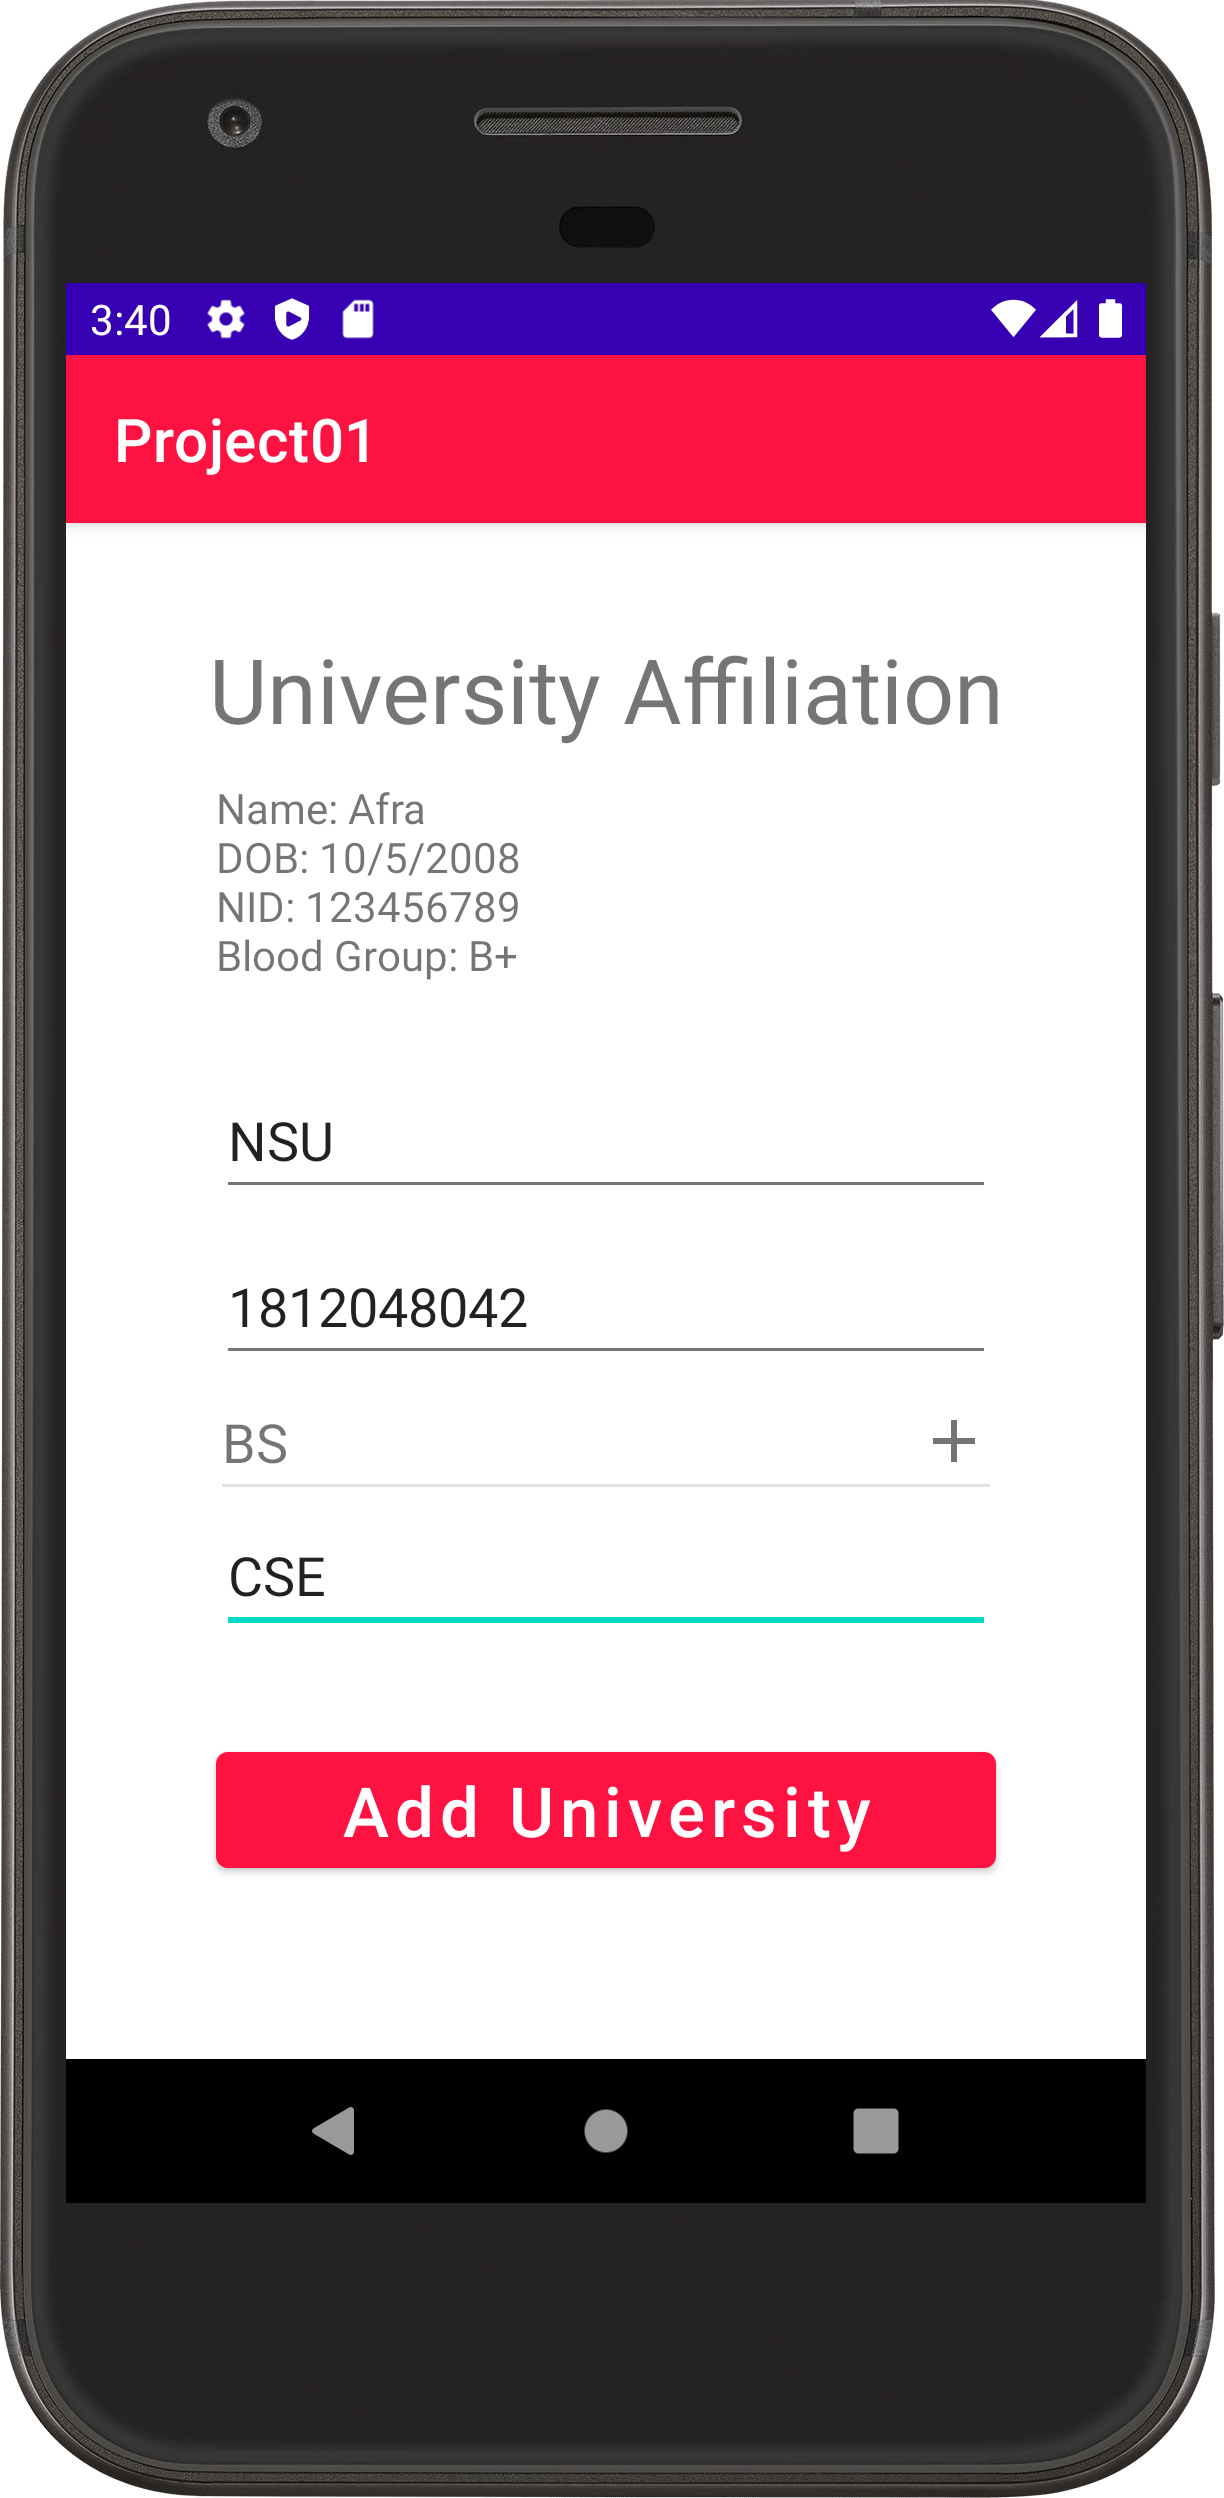
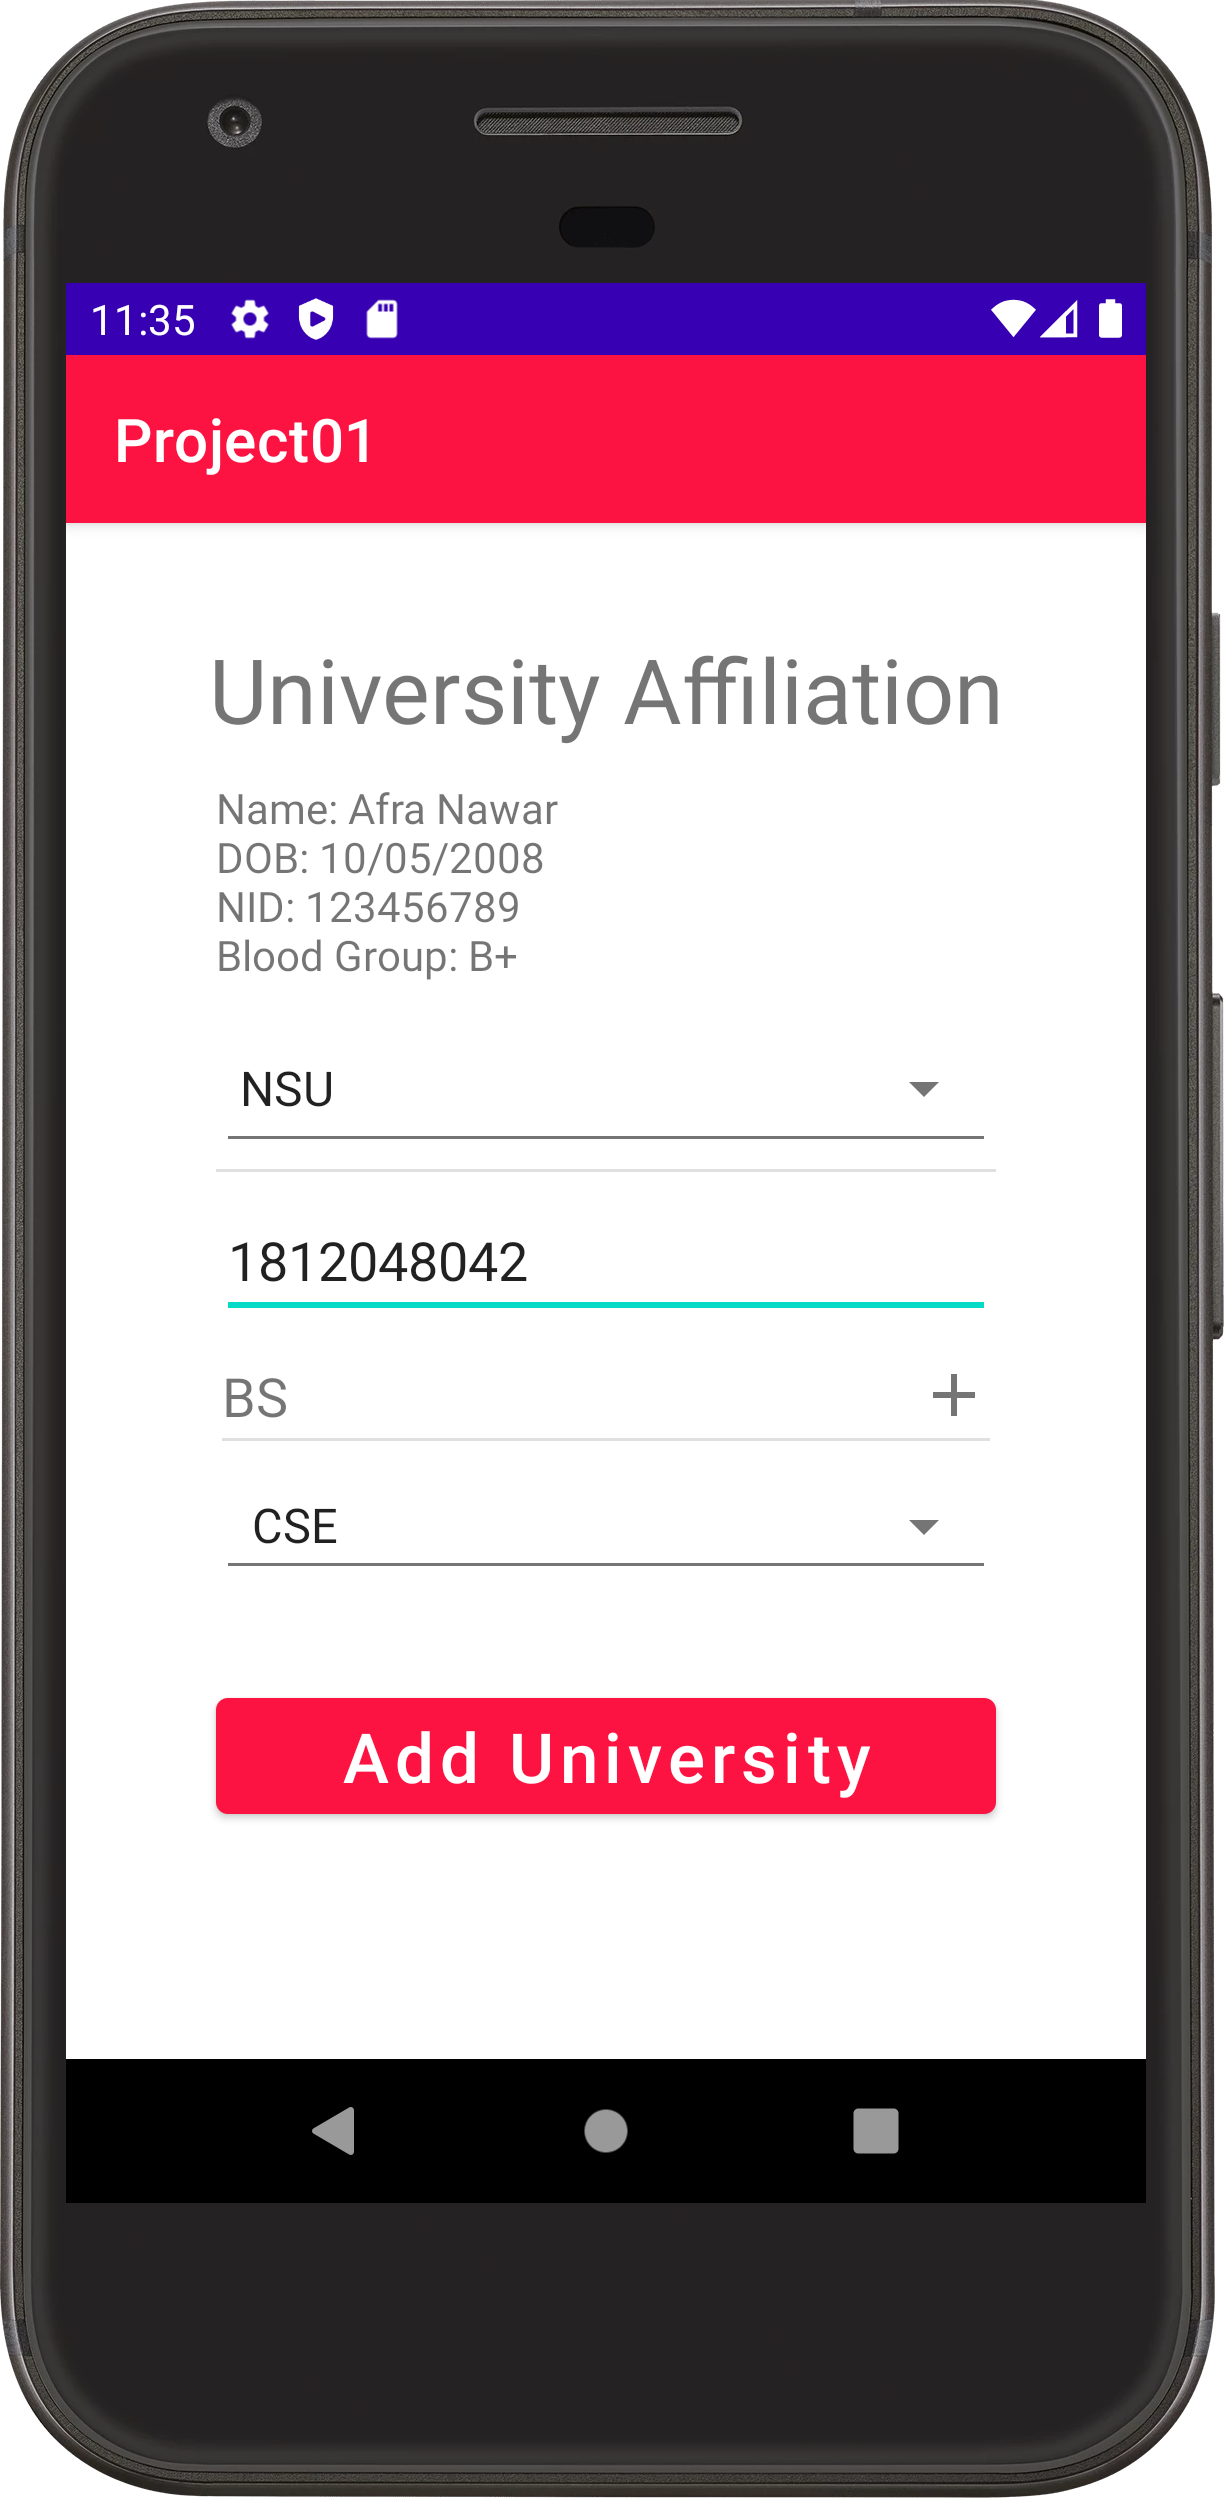
Converted Uni and Dept to Dropdown Assgn1

diff --git a/Theory/Assignment/Assignment01/app/src/main/java/com/example/cse486/project01/UniversityAffiliation.java b/Theory/Assignment/Assignment01/app/src/main/java/com/example/cse486/project01/UniversityAffiliation.java
@@ -8,20 +8,26 @@ import android.content.DialogInterface;
 import android.content.Intent;
 import android.os.Bundle;
 import android.view.View;
+import android.widget.AdapterView;
+import android.widget.ArrayAdapter;
+import android.widget.SpinnerAdapter;
 import android.widget.Toast;
 
 import com.example.cse486.project01.databinding.ActivityMainBinding;
 import com.example.cse486.project01.databinding.ActivityUniversityAffiliationBinding;
 
 public class UniversityAffiliation extends AppCompatActivity {
-    private String uni;
-    private String dept;
+    private boolean uni;
+    private boolean dept;
+    private String uni_name;
+    private String dept_name;
     private String sid;
     private String study;
     private boolean dobisset = true;
     private boolean bgroupisset = false;
     final String[] studies = {
             "BS", "MS", "Post-Doc", "PhD"};
+
     private boolean studyisset = false;
 
     @Override
@@ -31,24 +37,63 @@ public class UniversityAffiliation extends AppCompatActivity {
         ActivityUniversityAffiliationBinding bindingUtil = DataBindingUtil.setContentView(this,R.layout.activity_university_affiliation);
         UserInfo userInfo = new UserInfo(getApplicationContext());
 
-        bindingUtil.prevInfo.setText("Name: "+userInfo.getName()+"\nDOB: "+userInfo.getDOB()+"\nNID: "+userInfo.getNID()+"\nBlood Group: "+userInfo.getBloodGroup());
+
+        bindingUtil.uninameDropdown.setOnItemSelectedListener(new AdapterView.OnItemSelectedListener() {
+            @Override
+            public void onItemSelected(AdapterView<?> parent, View view, int position, long id) {
+                int abc;
+                uni_name = parent.getItemAtPosition(position).toString();
+                if(uni_name.equals("NSU"))
+                {
+                    abc=R.array.NSUdept;
+                }
+                else if(uni_name.equals("BRAC"))
+                {
+                    abc=R.array.BRACdept;
+                }
+                else
+                {
+                    abc=R.array.BUETdept;
+                }
+                ArrayAdapter<CharSequence> adapter = ArrayAdapter.createFromResource(getApplicationContext(), abc, android.R.layout.simple_spinner_item);
+                adapter.setDropDownViewResource(android.R.layout.simple_spinner_dropdown_item);
+                bindingUtil.deptDropdown.setAdapter(adapter);
+
+            }
+
+            @Override
+            public void onNothingSelected(AdapterView<?> parent) {
+
+            }
+        });
+
+
+
+        bindingUtil.prevInfo.setText(String.format("Name: %s\nDOB: %s\nNID: %s\nBlood Group: %s", userInfo.getName(), userInfo.getDOB(), userInfo.getNID(), userInfo.getBloodGroup()));
 
         bindingUtil.uniButton.setOnClickListener(new View.OnClickListener() {
             @Override
             public void onClick(View view) {
-                uni = bindingUtil.uninameEdittextview.getText().toString();
-                dept = bindingUtil.deptEdittextview.getText().toString();
+                  if(bindingUtil.uninameDropdown.getSelectedItem()!=null) {
+                      uni_name = bindingUtil.uninameDropdown.getSelectedItem().toString();
+                      uni=true;
+                  }
+                if(bindingUtil.deptDropdown.getSelectedItem()!=null) {
+                    dept_name = bindingUtil.deptDropdown.getSelectedItem().toString();
+                    dept=true;
+                }
+               
                 sid = bindingUtil.sidEdittextview.getText().toString();
                 study = bindingUtil.study.getText().toString();
 
-                if(uni.trim().length()>3 & sid.trim().length()>3 & dept.trim().length()>2 & studyisset)
+
+                if(uni & sid.trim().length()>3 & dept & studyisset)
                 {
 
-                    userInfo.setUni(uni);
-                    userInfo.setDept(dept);
+                    userInfo.setUni(uni_name);
+                    userInfo.setDept(dept_name);
                     userInfo.setStudy(study);
                     userInfo.setSID(sid);
-
                     Intent intent = new Intent(getApplicationContext(),DisplayInfoActivity.class);
                     startActivity(intent);
 

diff --git a/Theory/Assignment/Assignment01/app/src/main/java/com/example/cse486/project01/MainActivity.java b/Theory/Assignment/Assignment01/app/src/main/java/com/example/cse486/project01/MainActivity.java
@@ -46,7 +46,7 @@ public class MainActivity extends AppCompatActivity {
                 dob = bindingUtil.dobEdittextview.getText().toString();
                 nid = bindingUtil.nidEdittextview.getText().toString();
 
-                if(name.trim().length()>2 & nid.trim().length()>9 & isDateCorrect(dob) & bgroupisset)
+                if(name.trim().length()>2 & nid.trim().length()>=9 & isDateCorrect(dob) & bgroupisset)
                 {
                     UserInfo userInfo = new UserInfo(getApplicationContext());
                     userInfo.setBloodGroup(bgroup);
@@ -90,13 +90,10 @@ public class MainActivity extends AppCompatActivity {
     private boolean isDateCorrect(String dateString) {
         SimpleDateFormat f = new SimpleDateFormat("dd/mm/yyyy");
         try {
-            Toast.makeText(getApplicationContext(),"Here",Toast.LENGTH_LONG).show();
-
             Date date = f.parse(dateString);
             Calendar calendar = Calendar.getInstance();
             calendar.setTime(date);
-
-            return matchesDatePattern(dateString);    //added my method
+            return matchesDatePattern(dateString);
         }
        catch (ParseException e) {
 
